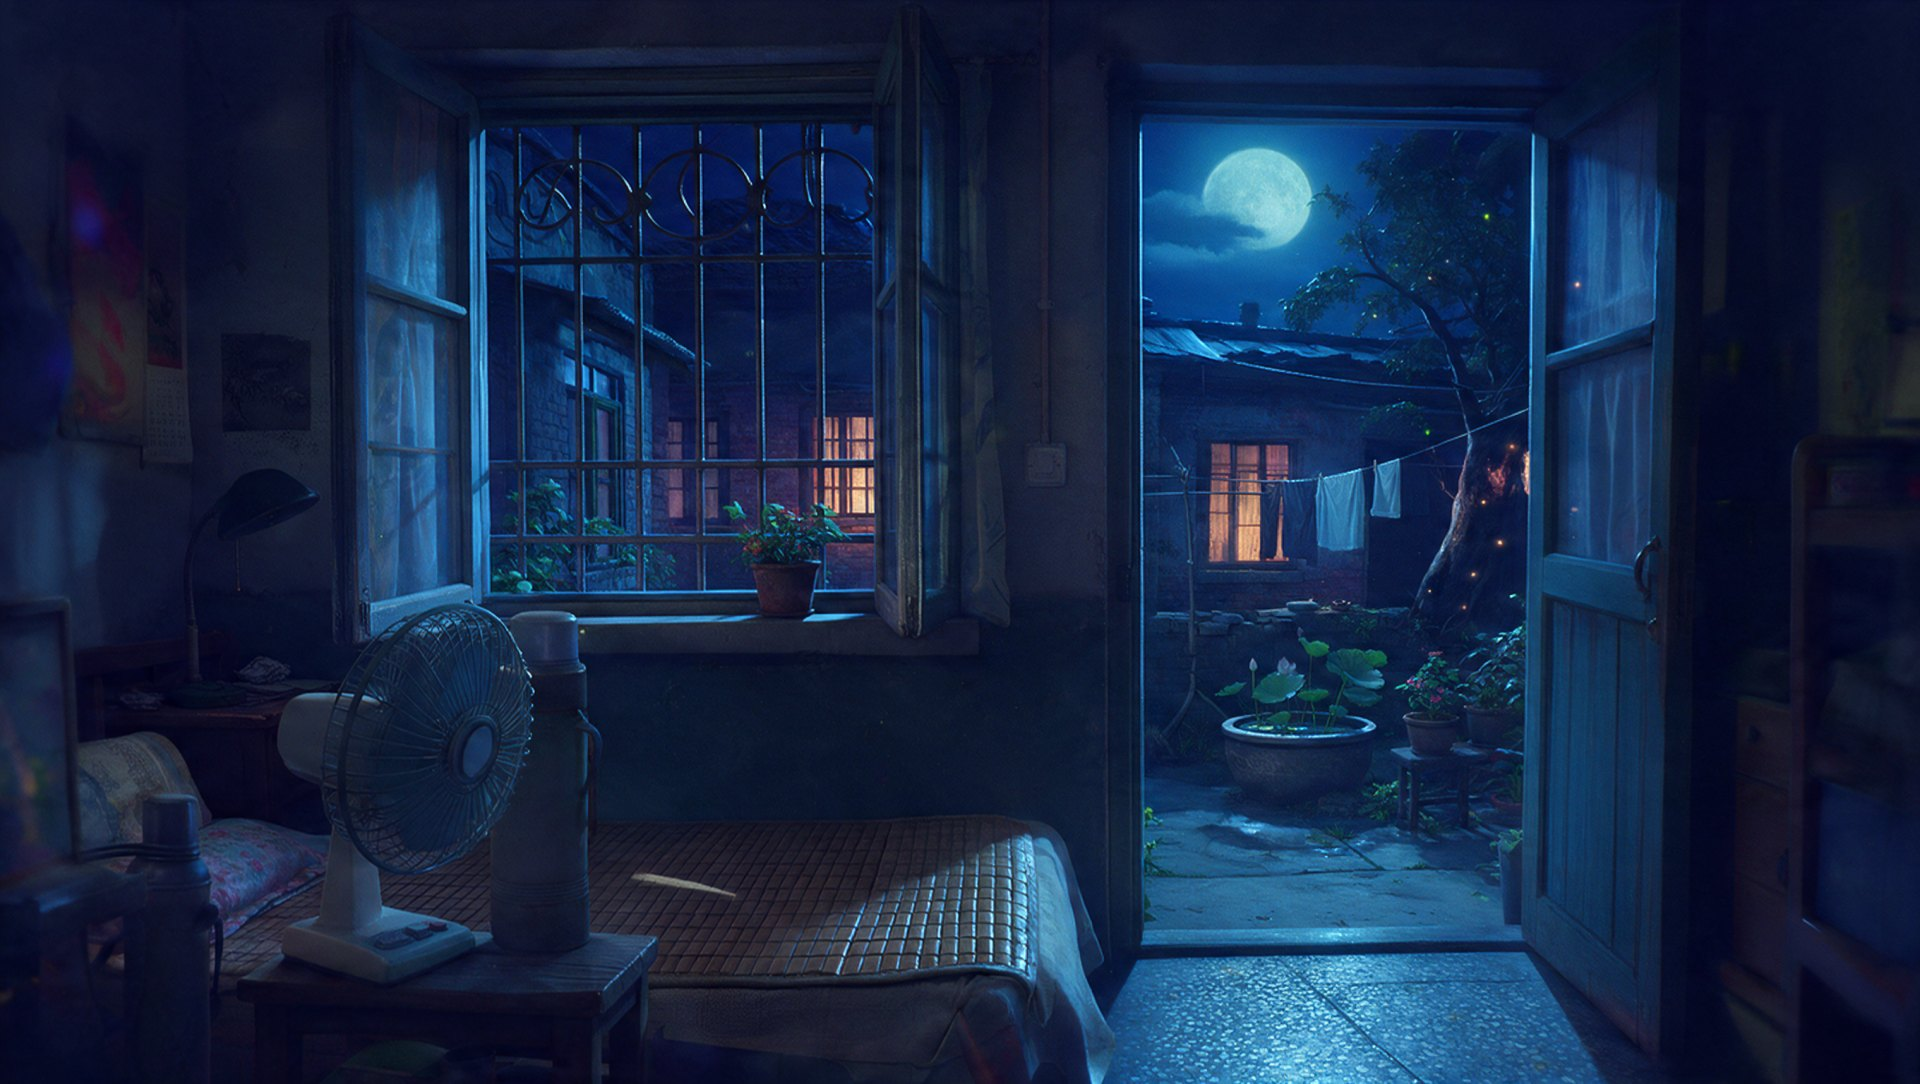
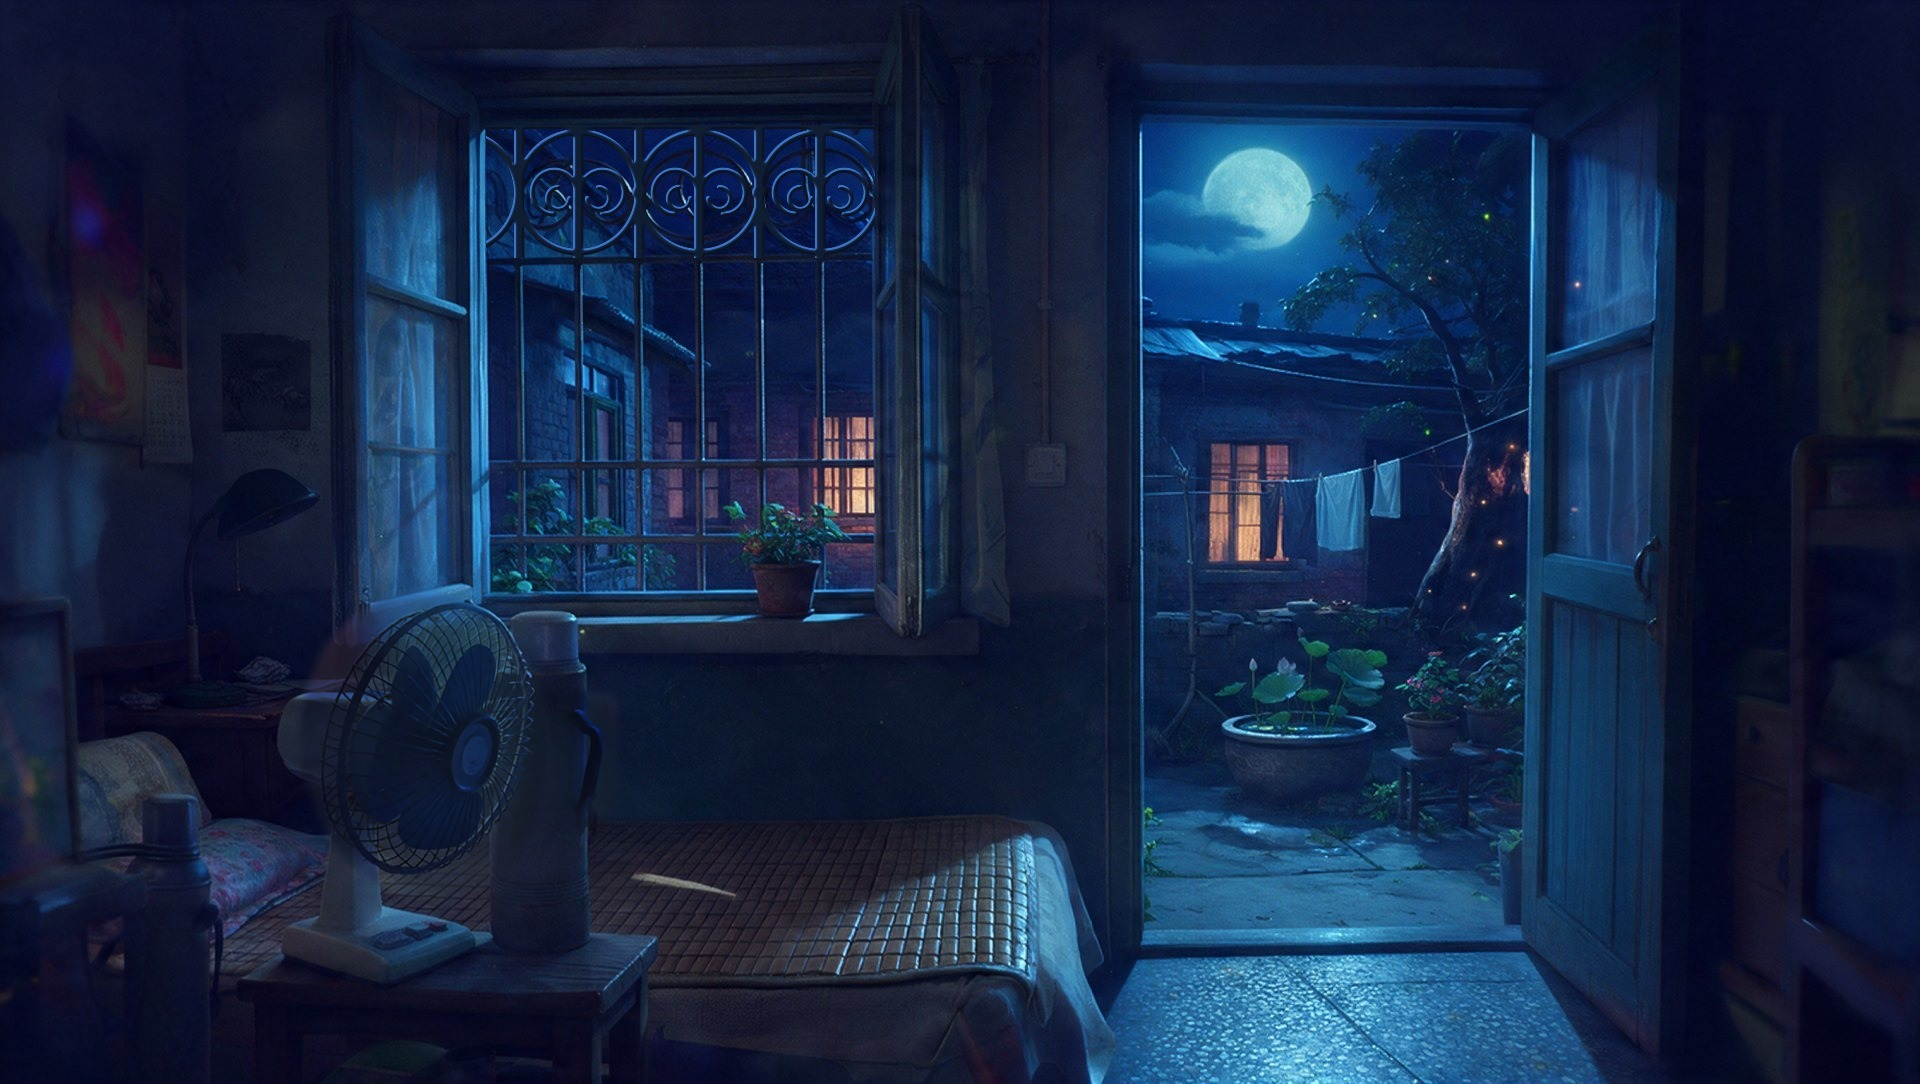
China: redraw window grille curls (clean mask+depth), fix fan grille/hub and thermos handle
Claude-Session: https://claude.ai/code/session_01WmePPEVtycNtDwciTC66yT

Changed region(s): [[0.25, 0.0913, 0.4688, 0.2435], [0.1562, 0.548, 0.3125, 0.7611], [0.1875, 0.7915, 0.2188, 0.822]]

diff --git a/public/index.html b/public/index.html
@@ -449,7 +449,7 @@ function framesFor(key){if(!LABFR||!LABFR[key])return null;if(FRM[key])return FR
     return Promise.all([...[...Array(j.n).keys()].flatMap(i=>[loadTex(dir+'/on_'+id(i)+'.jpg'),loadTex(dir+'/off_'+id(i)+'.jpg')]),
       ...[...Array(j.n-1).keys()].flatMap(i=>[loadTex(dir+'/fab_'+id(i)+'.png'),loadTex(dir+'/fba_'+id(i)+'.png')])])}).then(a=>{const m=2*F.n,A=a.slice(0,m),B=a.slice(m);
       F.on=A.filter((_,i)=>i%2==0);F.off=A.filter((_,i)=>i%2==1);F.fab=B.filter((_,i)=>i%2==0);F.fba=B.filter((_,i)=>i%2==1);F.ready=true}).catch(()=>{});return F}
-function texFor(key){if(!cache.has(key))cache.set(key,Promise.all(FILES.map(n=>loadTex(((LAB&&LAB[key])||key)+'/'+n+(/^(out_|mask)/.test(n)?'?v=12':'')))).then(a=>Object.fromEntries(FILES.map((n,i)=>[n.split('.')[0],a[i]]))));return cache.get(key)}
+function texFor(key){if(!cache.has(key))cache.set(key,Promise.all(FILES.map(n=>loadTex(((LAB&&LAB[key])||key)+'/'+n+(/^(out_|mask|plate_|maps)/.test(n)?'?v=13':'')))).then(a=>Object.fromEntries(FILES.map((n,i)=>[n.split('.')[0],a[i]]))));return cache.get(key)}
 function evict(keep){for(const [k,p] of cache)if(!keep.includes(k)){cache.delete(k);p.then(T=>Object.values(T).forEach(t=>t.dispose()))}}
 const tvCan=document.createElement('canvas');tvCan.width=128;tvCan.height=96;const tvCtx=tvCan.getContext('2d');
 const tTV=new THREE.CanvasTexture(tvCan);tTV.minFilter=THREE.LinearFilter;tTV.generateMipmaps=false;

diff --git a/public/lab.html b/public/lab.html
@@ -450,7 +450,7 @@ function framesFor(key){if(!LABFR||!LABFR[key])return null;if(FRM[key])return FR
     return Promise.all([...[...Array(j.n).keys()].flatMap(i=>[loadTex(dir+'/on_'+id(i)+'.jpg'),loadTex(dir+'/off_'+id(i)+'.jpg')]),
       ...[...Array(j.n-1).keys()].flatMap(i=>[loadTex(dir+'/fab_'+id(i)+'.png'),loadTex(dir+'/fba_'+id(i)+'.png')])])}).then(a=>{const m=2*F.n,A=a.slice(0,m),B=a.slice(m);
       F.on=A.filter((_,i)=>i%2==0);F.off=A.filter((_,i)=>i%2==1);F.fab=B.filter((_,i)=>i%2==0);F.fba=B.filter((_,i)=>i%2==1);F.ready=true}).catch(()=>{});return F}
-function texFor(key){if(!cache.has(key))cache.set(key,Promise.all(FILES.map(n=>loadTex(((LAB&&LAB[key])||key)+'/'+n+(/^(out_|mask)/.test(n)?'?v=12':'')))).then(a=>Object.fromEntries(FILES.map((n,i)=>[n.split('.')[0],a[i]]))));return cache.get(key)}
+function texFor(key){if(!cache.has(key))cache.set(key,Promise.all(FILES.map(n=>loadTex(((LAB&&LAB[key])||key)+'/'+n+(/^(out_|mask|plate_|maps)/.test(n)?'?v=13':'')))).then(a=>Object.fromEntries(FILES.map((n,i)=>[n.split('.')[0],a[i]]))));return cache.get(key)}
 function evict(keep){for(const [k,p] of cache)if(!keep.includes(k)){cache.delete(k);p.then(T=>Object.values(T).forEach(t=>t.dispose()))}}
 const tvCan=document.createElement('canvas');tvCan.width=128;tvCan.height=96;const tvCtx=tvCan.getContext('2d');
 const tTV=new THREE.CanvasTexture(tvCan);tTV.minFilter=THREE.LinearFilter;tTV.generateMipmaps=false;
